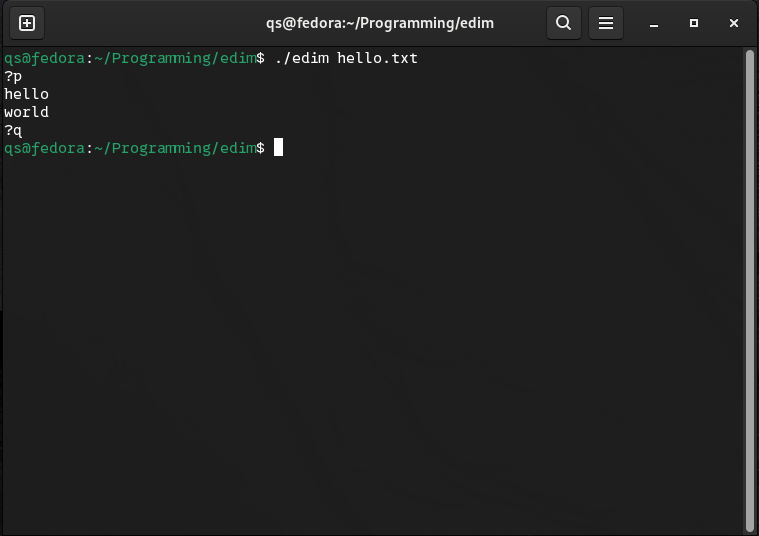
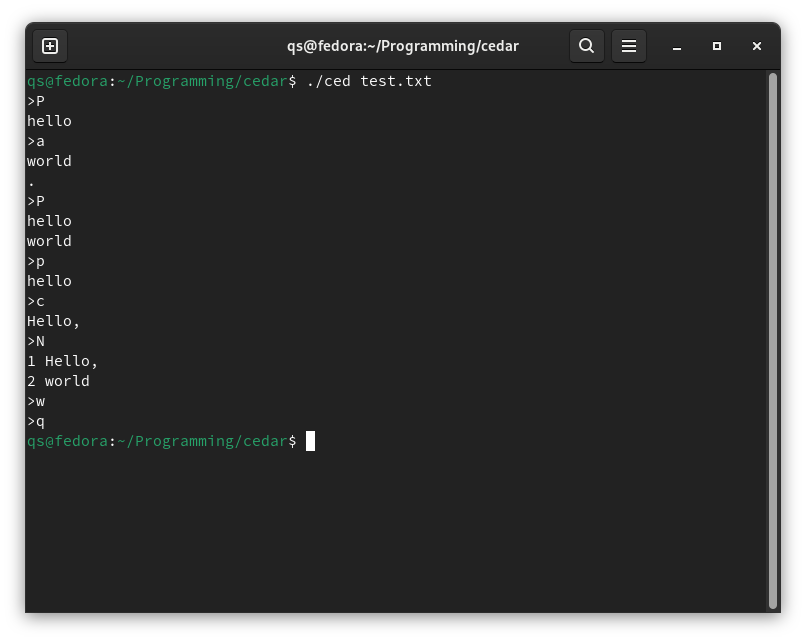
renamed to cedar(ced)

Changed region(s): [[0.0, 0.0, 1.0, 1.0]]

diff --git a/README.md b/README.md
@@ -1,5 +1,5 @@
-# edim
+# cedar
 
-edim is a text editor inspired by the oldest text editor ***ed***. The aim of this project is to recreate the ed editor with some improvements, hence the name edim(ed improved). Currently only the basic functionality of the editor is recreated. This project is made for fun, I honestly doubt I will be able to bring major improvements to this editor(surprisingly it has some pretty advanced features).
+cedar(ced) is a simple text editor inspired by the oldest unix text editor ***ed***. Currently only the basic functionality of the editor is implemented.
 
-![Screenshot of a terminal using edim](screenshot.png)
+![Screenshot of a terminal using cedar](screenshot.png)
